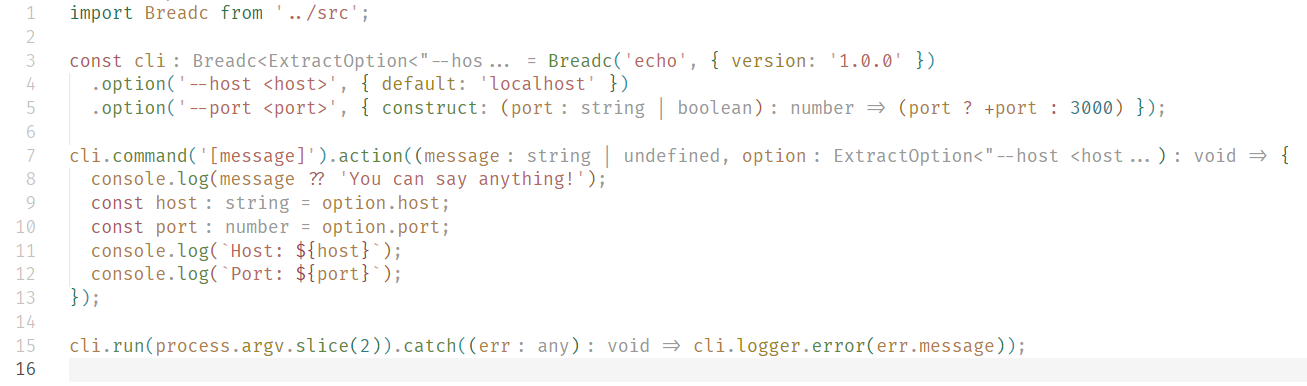
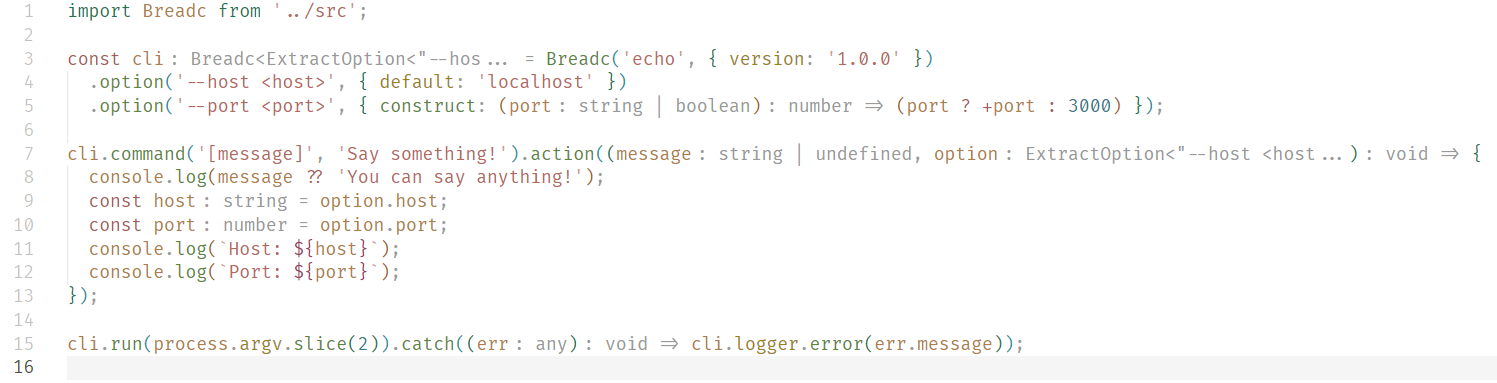
docs: show features

diff --git a/examples/echo.ts b/examples/echo.ts
@@ -4,7 +4,7 @@ const cli = Breadc('echo', { version: '1.0.0' })
   .option('--host <host>', { default: 'localhost' })
   .option('--port <port>', { construct: (port) => (port ? +port : 3000) });
 
-cli.command('[message]').action((message, option) => {
+cli.command('[message]', 'Say something!').action((message, option) => {
   console.log(message ?? 'You can say anything!');
   const host = option.host;
   const port = option.port;

diff --git a/README.md b/README.md
@@ -4,6 +4,12 @@
 
 Yet another Command Line Application Framework powered by [minimist](https://www.npmjs.com/package/minimist), but with fully strong [TypeScript](https://www.typescriptlang.org/) support.
 
+## Features
+
++ ⚡ **Light-weight**: Only 61 kB.
++ 📖 **East to Learn**: Breadc is basically compatible with [cac](https://github.com/cacjs/cac) and there are only 4 APIs for building a CLI application: `command`, `option`, `action`, `run`.
++ 💻 **TypeScript Infer**: IDE will automatically infer the type of your command action function.
+
 ## Installation
 
 ```bash
@@ -22,7 +28,7 @@ const cli = Breadc('echo', { version: '1.0.0' })
   .option('--port <port>', { construct: (port) => (port ? +port : 3000) });
 
 cli
-  .command('[message]')
+  .command('[message]', 'Say something!')
   .action((message, option) => {
     const host = option.host;
     const port = option.port;
